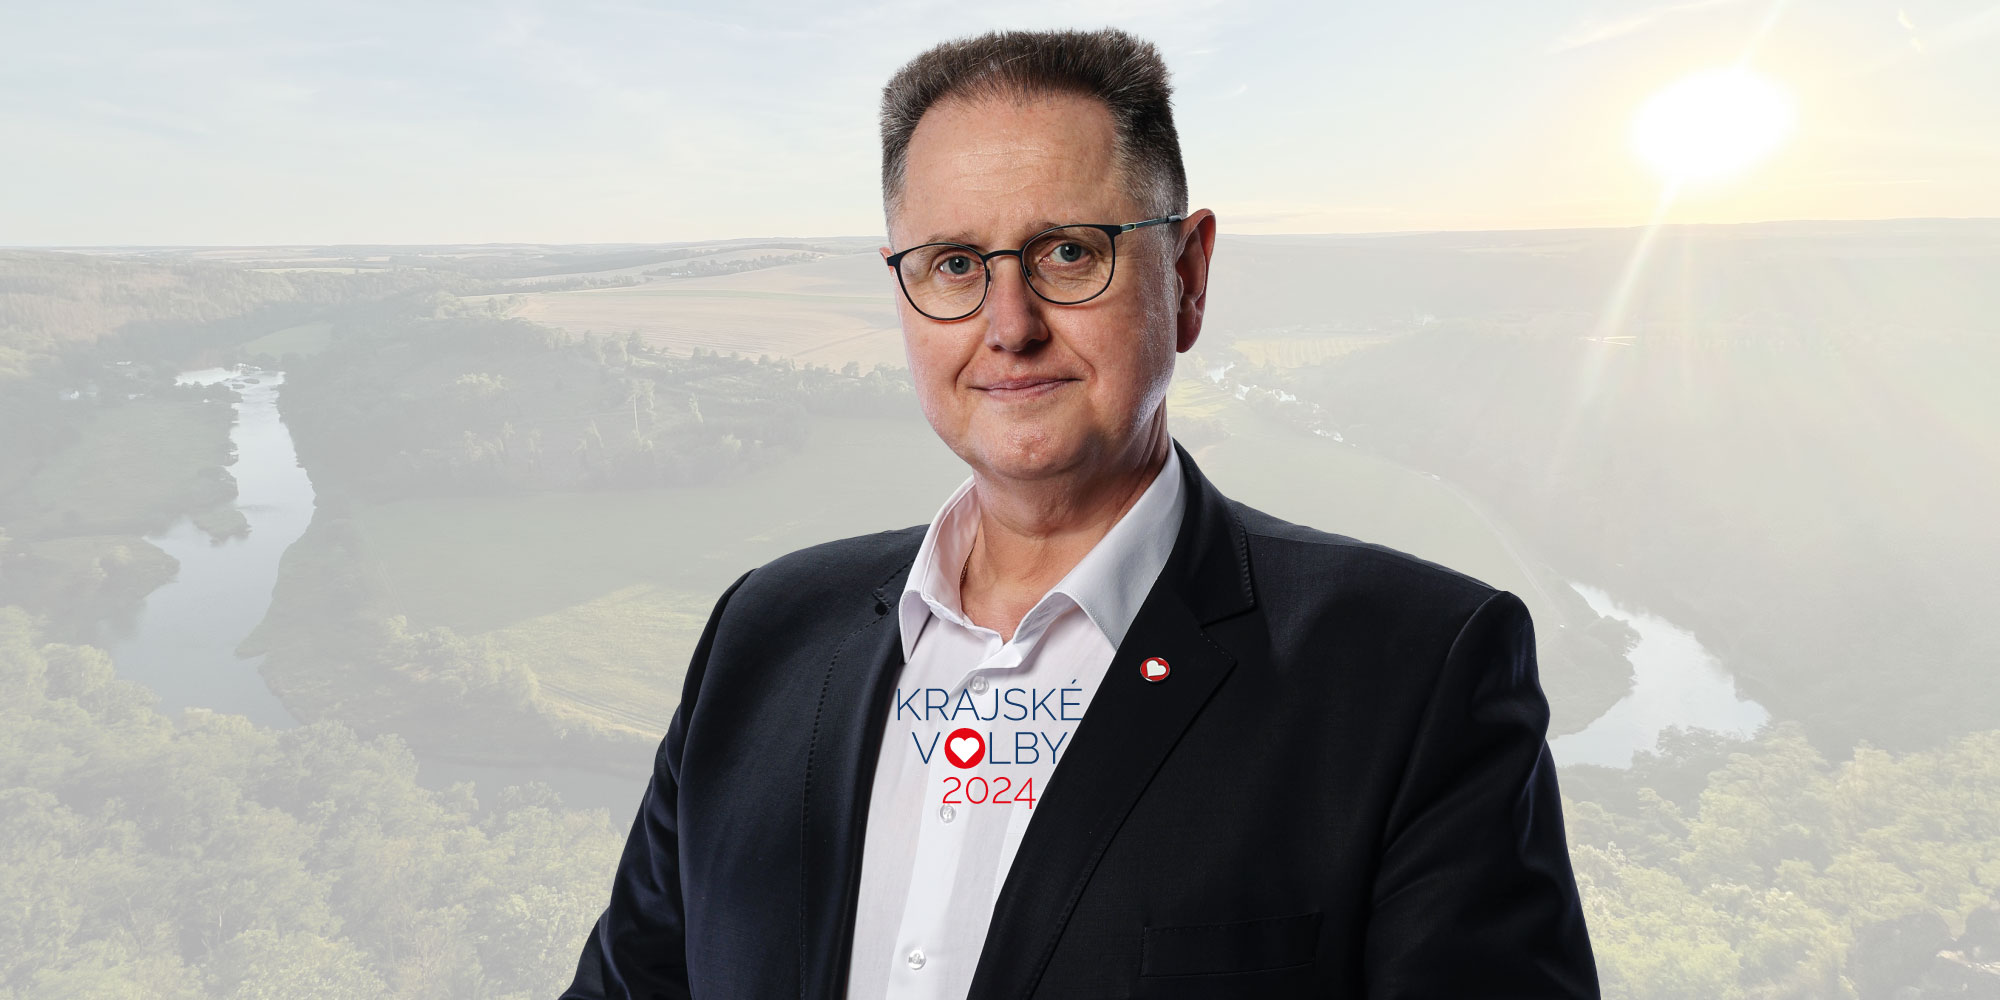
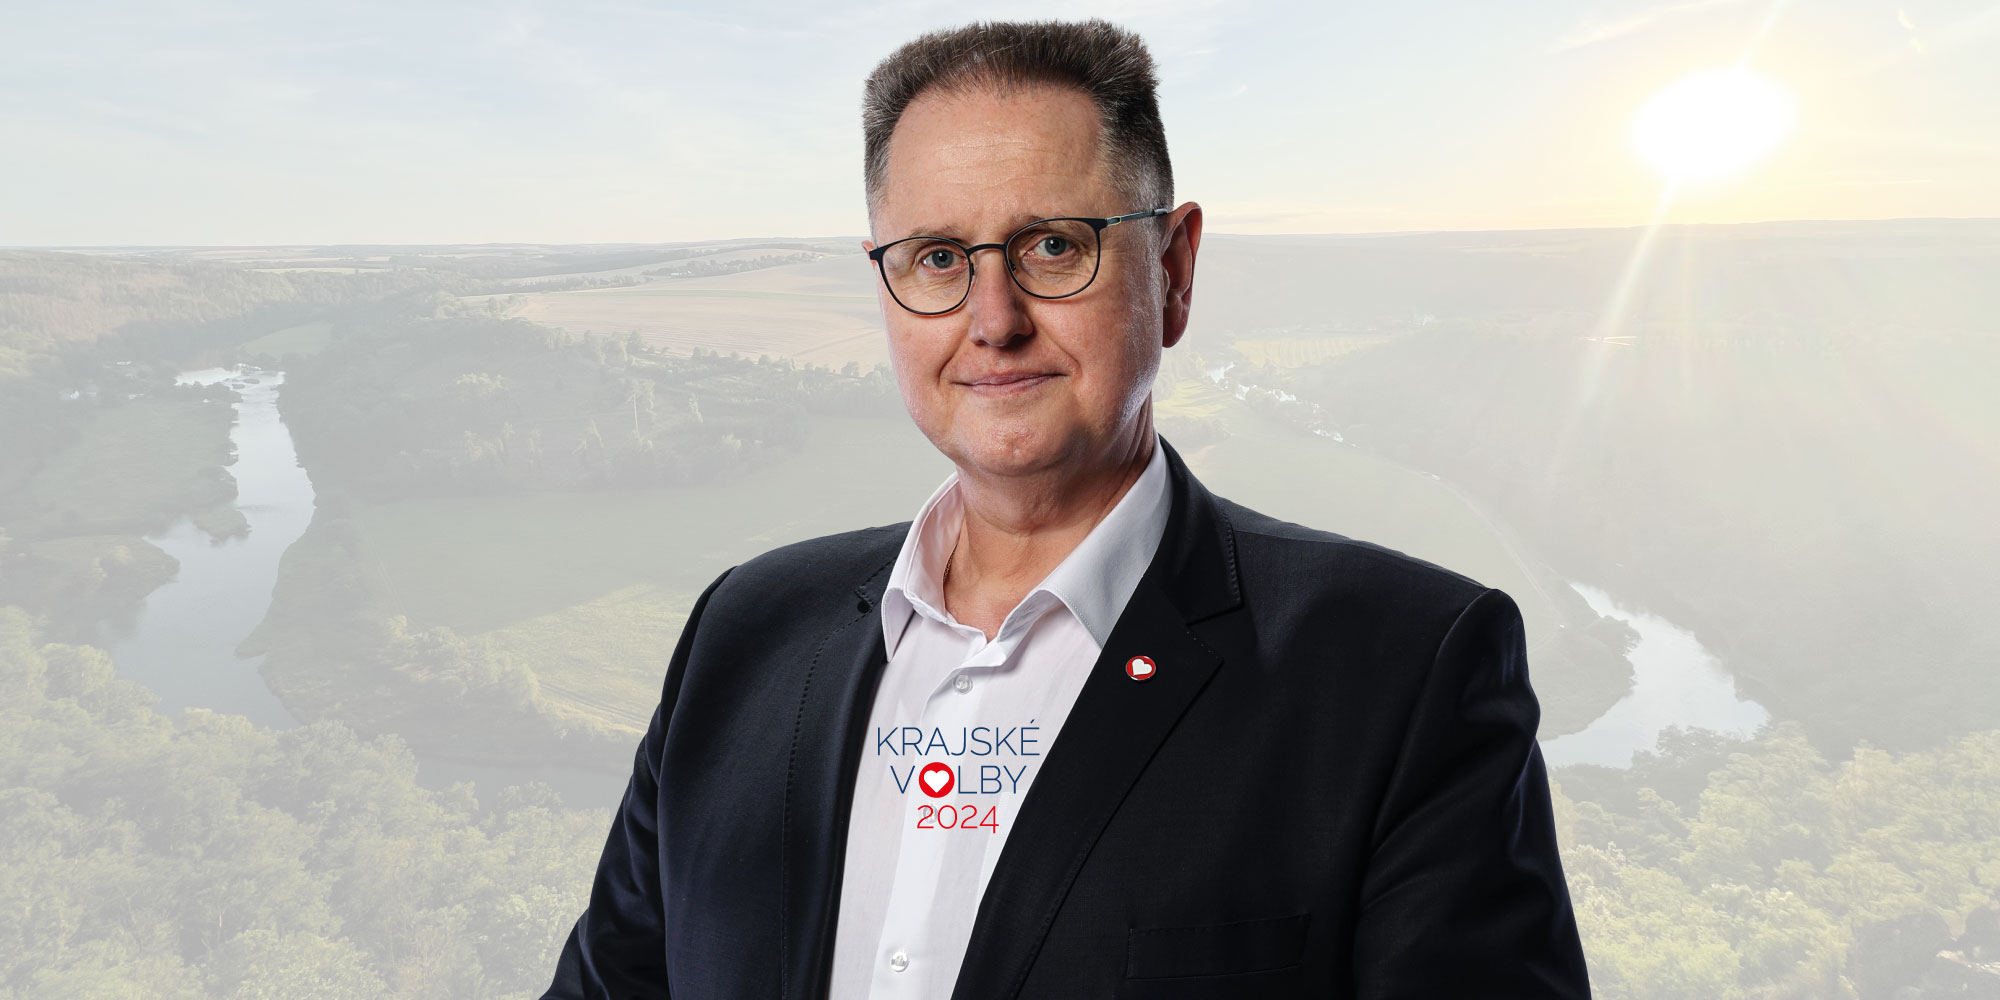
nová fotka, opravy fb a další

Changed region(s): [[0.248, 0.0, 0.62, 1.0], [0.744, 0.589, 0.806, 1.0], [0.713, 0.558, 0.744, 0.589]]

diff --git a/index.html b/index.html
@@ -15,8 +15,8 @@
 		<meta property="og:url" content="https://senatortomasrada.cz/index.html">
 		<meta property="og:image" content="https://senatortomasrada.cz/img/hlavicka.jpg">
 		<meta property="og:image:alt" content="Ing. Tomáš Rada kandidát do senátu">
-		<link rel="stylesheet" href="styles.min.css?v=1.0.1">
-		<script src="scripts.min.js?v=1.0.1"></script>
+		<link rel="stylesheet" href="styles.min.css?v=1.0.3">
+		<script src="scripts.min.js?v=1.0.3"></script>
 		<link rel="apple-touch-icon" sizes="180x180" href="./img/icons/apple-touch-icon.png">
 		<link rel="icon" type="image/png" sizes="32x32" href="./img/icons/favicon-32x32.png">
 		<link rel="icon" type="image/png" sizes="16x16" href="./img/icons/favicon-16x16.png">
@@ -59,7 +59,7 @@
 			<div class="w3-display-bottomleft w3-xxxlarge headerIcons">
 				<a href="mailto:radat@seznam.cz"><span class="fa fa-envelope"></span></a>
 				<a href="tel:+420778536500"><span class="fa fa-phone"></span></a>
-				<a href="https://www.facebook.com/stanislav.antos.7"><span class="fa fa-facebook-official"></span></a>
+				<a href="https://www.facebook.com/ing.rada.tomas"><span class="fa fa-facebook-official"></span></a>
 			</div>
 		</header>
 		<section class="w3-container" id="about">
@@ -164,9 +164,20 @@
 		</section>
 		<section class="w3-container w3-light-grey" id="why">
 			<h3 class="w3-center"><span class="fa fa-life-ring"></span> PROČ</h3>
-			<p class="w3-center w3-xlarge">Moto: „Demokracie je diskuze. I o věcech, které se nám nelíbí““</p>
-			<p class="w3-large"> Protože z pozice starosty mohu měnit věci jen v Rokycanech. Uvědomuju si ale, že je potřeba pomáhat více našemu regionu a jeho obyvatelům, aby jejich hlas byl slyšet i v Praze. Chci přenášet zkušenosti z komunální politiky do té celostátní a být zárukou kontinuity vývoje společnosti na úkor mnohdy neuvážených či nekoncepčních řešení. Jako starosta se musím denně vypořádávat s novými zákony, které lze někdy jen těžko uvádět do praxe. I to je jeden z úkolů senátora, upozorňovat, dávat pozměňovací návrhy, nastavovat zrcadlo.“</p>
-			<p class="w3-large">„Protože jsem tu doma. Senátní okrsek 8 – Rokycany je podle zákona č. 247/1995 Sb. je celý okres Rokycany, celý okres Plzeň-sever, západní část okresu Beroun, ohraničená obcemi Broumy, Kublov, Březová, Bzová, Drozdov, Záluží, Osek, Hvozdec, Chaloupky, Malá Víska, Zaječov, Olešná, severovýchodní část okresu Plzeň-město, tvořená obcemi Chrást, Dýšina, Kyšice “</p>
+			<p class="w3-center w3-xlarge">
+				Moto: „Demokracie je diskuze. I o věcech, které se nám nelíbí“
+			</p>
+			<div class="w3-row">
+				<div class="w3-quarter gallery w3-center">
+					<img src="img/vitaniObcanku.jpg" class="portrait" alt="Ing. Tomáš Rada">
+				</div>
+				<div class="w3-threequarter">
+					<p class="w3-large"> Protože z pozice starosty mohu měnit věci jen v Rokycanech. Uvědomuju si ale, že je potřeba pomáhat více našemu regionu a jeho obyvatelům, aby jejich hlas byl slyšet i v Praze. Chci přenášet zkušenosti z komunální politiky do té celostátní a být zárukou kontinuity vývoje společnosti na úkor mnohdy neuvážených či nekoncepčních řešení. Jako starosta se musím denně vypořádávat s novými zákony, které lze někdy jen těžko uvádět do praxe. I to je jeden z úkolů senátora, upozorňovat, dávat pozměňovací návrhy, nastavovat zrcadlo.“
+					</p>
+					<p class="w3-large">„Protože jsem tu doma. Senátní okrsek 8 – Rokycany je podle zákona č. 247/1995 Sb. je celý okres Rokycany, celý okres Plzeň-sever, západní část okresu Beroun, ohraničená obcemi Broumy, Kublov, Březová, Bzová, Drozdov, Záluží, Osek, Hvozdec, Chaloupky, Malá Víska, Zaječov, Olešná, severovýchodní část okresu Plzeň-město, tvořená obcemi Chrást, Dýšina, Kyšice “
+					</p>
+				</div>
+			</div>
 		</section>
 		<section class="w3-container" id="contact">
 			<h3 class="w3-center"><span class="fa fa-address-card-o"></span> KONTAKT</h3>
@@ -196,7 +207,7 @@
 			<div class="w3-xxlarge w3-section">
 				<a href="mailto:radat@seznam.cz" rel="nofollow"><span class="fa fa-envelope w3-hover-opacity w3-text-white"></span></a>
 				<a href="tel:+420778536500" rel="nofollow"><span class="fa fa-phone w3-hover-opacity w3-text-white"></span></a>
-				<a href="https://www.facebook.com/stanislav.antos.7" target="_blank" rel="nofollow"><span class="fa fa-facebook-official w3-hover-opacity w3-text-white"></span></a>
+				<a href="https://www.facebook.com/ing.rada.tomas" target="_blank" rel="nofollow"><span class="fa fa-facebook-official w3-hover-opacity w3-text-white"></span></a>
 			</div>
 			<div>
 				<a href="https://sec.stanislav.eu" rel="nofollow" target="_blank">2024 | Ing. Stanislav Šec</a>

diff --git a/404.html b/404.html
@@ -15,7 +15,7 @@
 		<meta property="og:url" content="https://senatortomasrada.cz/index.html">
 		<meta property="og:image" content="https://senatortomasrada.cz/img/hlavicka.jpg">
 		<meta property="og:image:alt" content="Ing. Tomáš Rada kandidát do senátu">
-		<link rel="stylesheet" href="styles.min.css?v=1.0.1">
+		<link rel="stylesheet" href="styles.min.css?v=1.0.3">
 		<link rel="apple-touch-icon" sizes="180x180" href="./img/icons/apple-touch-icon.png">
 		<link rel="icon" type="image/png" sizes="32x32" href="./img/icons/favicon-32x32.png">
 		<link rel="icon" type="image/png" sizes="16x16" href="./img/icons/favicon-16x16.png">
@@ -58,7 +58,7 @@
 			<div class="w3-display-bottomleft w3-xxxlarge headerIcons">
 				<a href="mailto:radat@seznam.cz"><span class="fa fa-envelope"></span></a>
 				<a href="tel:+420778536500"><span class="fa fa-phone"></span></a>
-				<a href="https://www.facebook.com/stanislav.antos.7"><span class="fa fa-facebook-official"></span></a>
+				<a href="https://www.facebook.com/ing.rada.tomas"><span class="fa fa-facebook-official"></span></a>
 			</div>
 		</header>
 		<section class="w3-padding-48">
@@ -69,7 +69,7 @@
 		<footer class="w3-center color-2 w3-padding-64">
 			<a href="https://senatortomasrada.cz#home" class="w3-button"><i class="fa fa-arrow-up w3-margin-right"></i>Zpět na začátek</a>
 			<div class="w3-xxlarge w3-section">
-				<a href="https://www.facebook.com/stanislav.antos.7"><i class="fa fa-facebook-official w3-hover-opacity"></i></a>
+				<a href="https://www.facebook.com/ing.rada.tomas"><i class="fa fa-facebook-official w3-hover-opacity"></i></a>
 				<a href="mailto:radat@seznam.cz"><i class="fa fa-envelope w3-hover-opacity"></i></a>
 				<a href="tel:+420778536500"><i class="fa fa-phone w3-hover-opacity"></i></a>
 			</div>
